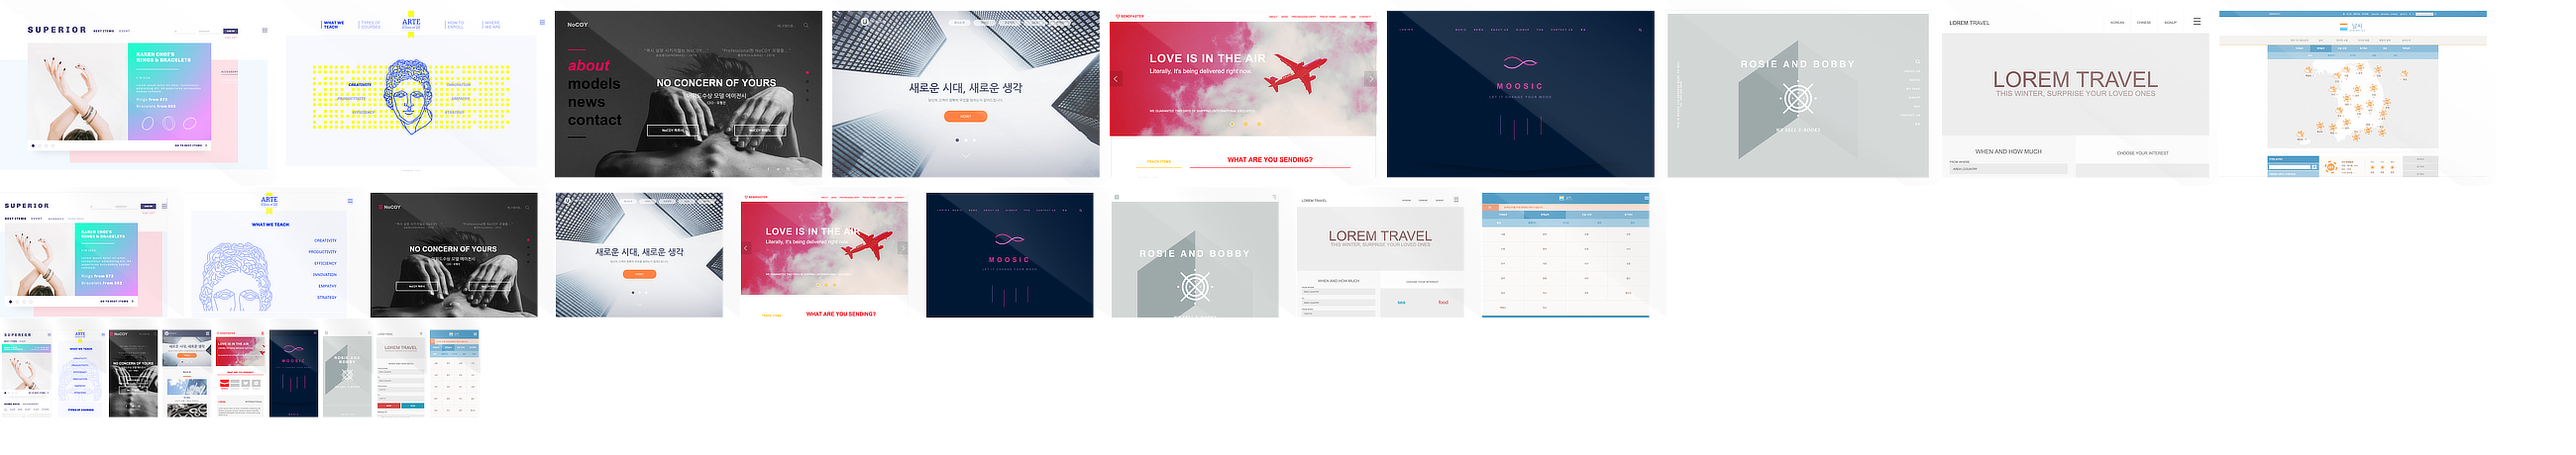
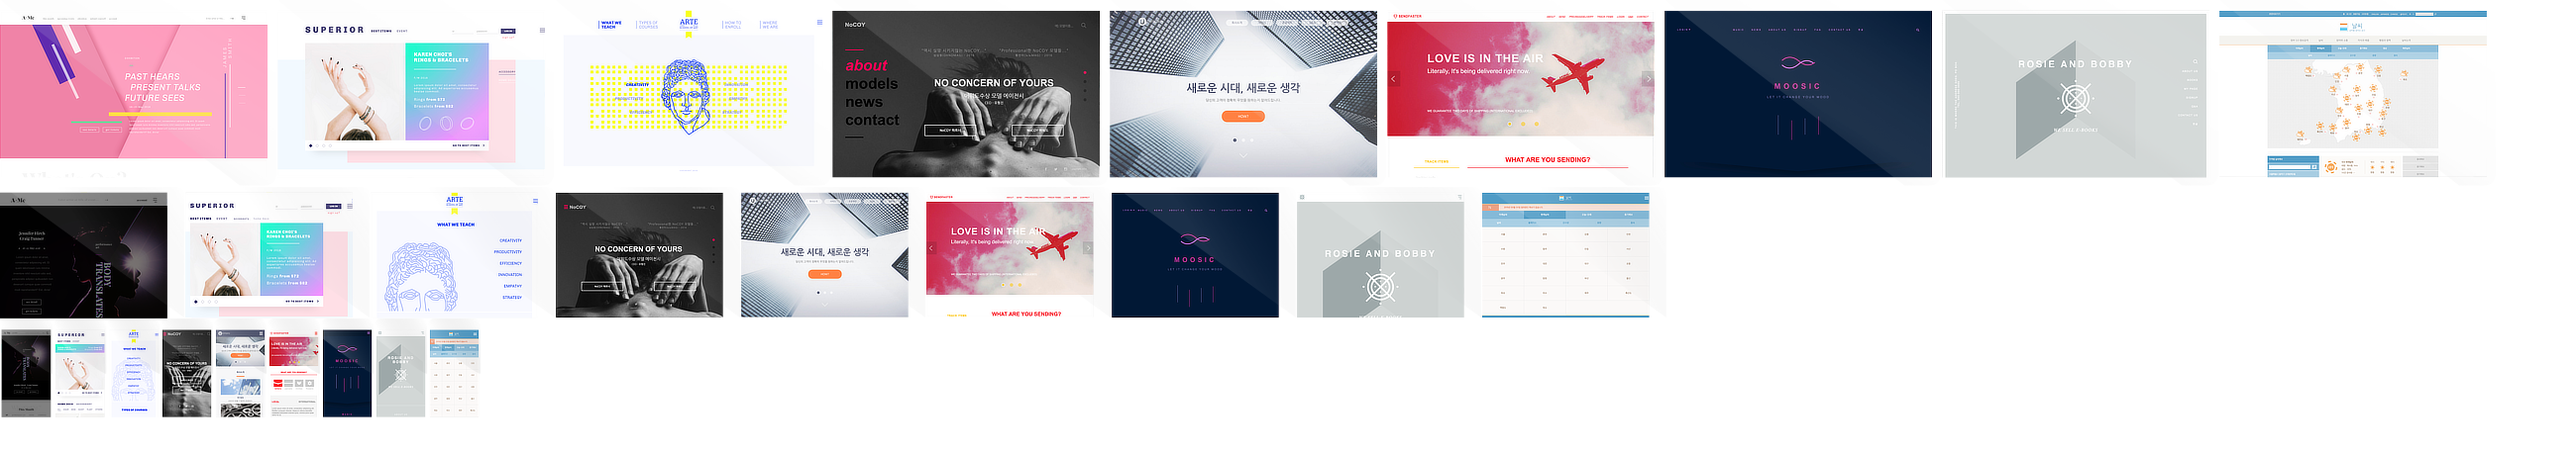
updates

diff --git a/index_ko.html b/index_ko.html
@@ -131,7 +131,17 @@
 						
 						<div class="forAb">
 							<ul>
-								<li><a href="" class="selected">Superior</a>
+								<li><a href="" class="selected">AMe (코딩중)</a>
+									<span class="break blackDeco"></span>
+									<dl>
+										<dt><a href="http://iamtrig.github.io/superior/index.html" target="_blank" title="새창으로 열립니다">사이트 가기</a></dt>
+										<dd>이벤트 가이드</dd>
+										<dd>개인작업 (100%)</dd>
+										<dd>html5 / css 3 / jQuery</dd>
+										<dd>반응형 (코딩중)</dd>
+									</dl>
+								</li>
+								<li><a href="">Superior</a>
 									<span class="break blackDeco"></span>
 									<dl>
 										<dt><a href="http://iamtrig.github.io/superior/index.html" target="_blank" title="새창으로 열립니다">사이트 가기</a></dt>
@@ -198,16 +208,6 @@
 										<dd>전자책 회사</dd>
 										<dd>개인작업 (100%)</dd>
 										<dd>html5 / css 3 / jQuery</dd>
-										<dd>반응형</dd>
-									</dl>
-								</li>
-								<li><a href="">Lorem 여행사</a>
-									<span class="break blackDeco"></span>
-									<dl>
-										<dt><a href="http://iamtrig.github.io/loremTravel/index_kor.html" target="_blank" title="새창으로 열립니다">사이트 가기</a></dt>
-										<dd>여행사</dd>
-										<dd>개인작업 (100%)</dd>
-										<dd>xhtml / css / jQuery</dd>
 										<dd>반응형</dd>
 									</dl>
 								</li>

diff --git a/index.html b/index.html
@@ -135,7 +135,17 @@
 						
 						<div class="forAb">
 							<ul>
-								<li><a href="" class="selected">Superior</a>
+								<li><a href="" class="selected">AMe (WIP)</a>
+									<span class="break blackDeco"></span>
+									<dl>
+										<dt><a href="http://iamtrig.github.io/ame/index.html" target="_blank" title="Open In New Window">Go To Site</a></dt>
+										<dd>Event Guide</dd>
+										<dd>Personal Project</dd>
+										<dd>html5 / css 3 / jQuery</dd>
+										<dd>Responsive (WIP)</dd>
+									</dl>
+								</li>
+								<li><a href="">Superior</a>
 									<span class="break blackDeco"></span>
 									<dl>
 										<dt><a href="http://iamtrig.github.io/superior/index.html" target="_blank" title="Open In New Window">Go To Site</a></dt>
@@ -202,16 +212,6 @@
 										<dd>Digital Bookstore</dd>
 										<dd>Personal Project</dd>
 										<dd>html5 / css 3 / jQuery</dd>
-										<dd>Responsive</dd>
-									</dl>
-								</li>
-								<li><a href="">Lorem Travel</a>
-									<span class="break blackDeco"></span>
-									<dl>
-										<dt><a href="http://iamtrig.github.io/loremTravel/index.html" target="_blank" title="Open In New Window">Go To Site</a></dt>
-										<dd>Travel Agency</dd>
-										<dd>Personal Project</dd>
-										<dd>xhtml / css / jQuery</dd>
 										<dd>Responsive</dd>
 									</dl>
 								</li>

diff --git a/css/main.css b/css/main.css
@@ -14,7 +14,7 @@
 	#header h1 { z-index: 1000000; position: absolute; top: 20px; left: 20px;  }
 	#header h1 a { opacity: 0.7 }
 	#header h1 a:hover { opacity: 1; transition: .5s;  -webkit-transition: .5s; -moz-transition: .5s; }
-
+	.wording { display: none }
 /* nav */
 
 	.navParent { z-index: 1000000; position: absolute; top: 26px; right: 20px }
